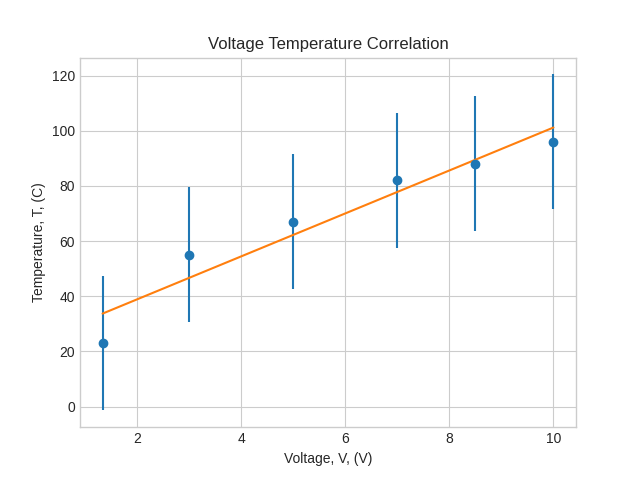
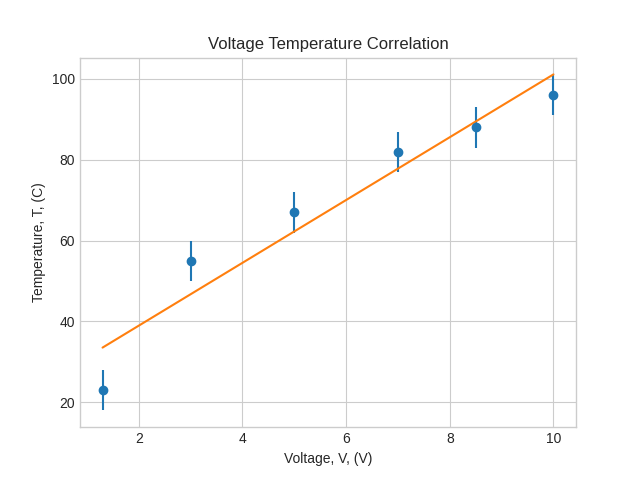
document class fixes

diff --git a/tests/testing.py b/tests/testing.py
@@ -168,7 +168,7 @@ class TestMeasurementandListInteractions(unittest.TestCase):
         ) 
 
 # Two MeasurementLists to be used in the rest of the tests
-voltages = MeasurementList([1.33333,3,5,7,8.5,10],1,"V")
+voltages = MeasurementList([1.3,3,5,7,8.5,10],1,"V")
 temperatures = MeasurementList([23,55,67,82,88,96],5,"C")
 
 
@@ -176,40 +176,40 @@ temperatures = MeasurementList([23,55,67,82,88,96],5,"C")
 
 # Linear Regression
 
-# eq = LinearRegression(voltages,temperatures)
-# print(eq)
+eq = LinearRegression(voltages,temperatures)
+print(eq)
 
 
 
 # Latex template creation
-# doc = Document(title = "Lab Report Template",author = "CianLM")
+doc = Document(title = "Lab Report Template",author = "CianLM")
 
 # print(MeasurementList.sin(voltages))
 
 
-# doc.table(
-#     listheads = ["Voltage, V","Temperature, T"],
-#     data = [voltages,temperatures],
-#     # headers = ["Variables","Data"],
-#     caption = "Voltage Temperature Correlation"
-# )
+doc.table(
+    listheads = ["Voltage, V","Temperature, T"],
+    data = [voltages,temperatures],
+    # headers = ["Variables","Data"],
+    caption = "Voltage Temperature Correlation"
+)
 
-# doc.table(
-#     listheads = ["Voltage, V","Temperature, T"],
-#     data = [voltages,temperatures],
-#     caption = "Voltage Temperature Correlation",
-#     style = "upright"
-# )
+doc.table(
+    listheads = ["Voltage, V","Temperature, T"],
+    data = [voltages,temperatures],
+    caption = "Voltage Temperature Correlation",
+    style = "upright"
+)
 
-# doc.graph(
-#     data = [voltages,temperatures],
-#     title = "Voltage Temperature Correlation",
-#     xnameandsymbol = "Voltage, V",
-#     ynameandsymbol = "Temperature, T",
-#     caption = "Linear Regression of Voltage and Temperature"
-# )
+doc.graph(
+    data = [voltages,temperatures],
+    title = "Voltage Temperature Correlation",
+    xnameandsymbol = "Voltage, V",
+    ynameandsymbol = "Temperature, T",
+    caption = "Linear Regression of Voltage and Temperature"
+)
 
-# doc.save("test")
+doc.save("test")
 
 if __name__ == '__main__':
     unittest.main(verbosity=2)

diff --git a/labtex/document.py b/labtex/document.py
@@ -163,18 +163,16 @@ class Document:
 
         eq = LinearRegression(*data)
         filename = f"graph{self.graphnumber}"
-        eq.savefig(Document.graphfolder + filename,title,xnameandsymbol,ynameandsymbol)
-        print(f"labtex: Wrote to '{Document.graphfolder + filename}.png'.")
 
-        if(Document.graphfolder != '.'): # assuming the folder is a subfolder
-            graph = graph.replace("!filename","../" + Document.graphfolder +  filename)
-        else:
-            graph = graph.replace("!filename", Document.graphfolder + filename)
+        graph = graph.replace("!filename", Document.graphfolder + filename)
 
         self.document = self.document.replace("!graph",graph)
 
         if (not os.path.exists(Document.graphfolder)):
             os.makedirs(Document.graphfolder)
+            
+        eq.savefig(Document.graphfolder + filename,title,xnameandsymbol,ynameandsymbol)
+        print(f"labtex: Wrote to '{Document.graphfolder + filename}.png'.")
 
     def save(self,filename: str ="labdocument"):
         "Save the document to 'filename.tex'."
@@ -182,7 +180,7 @@ class Document:
         self.document = self.document.replace("!table","").replace("!graph","")
 
         if(not os.path.exists(Document.texfolder)):
-            os.makdirs(Document.texfolder)
+            os.makedirs(Document.texfolder)
 
         with open(Document.texfolder + filename + '.tex','w') as outputfile:
             outputfile.write(self.document)
